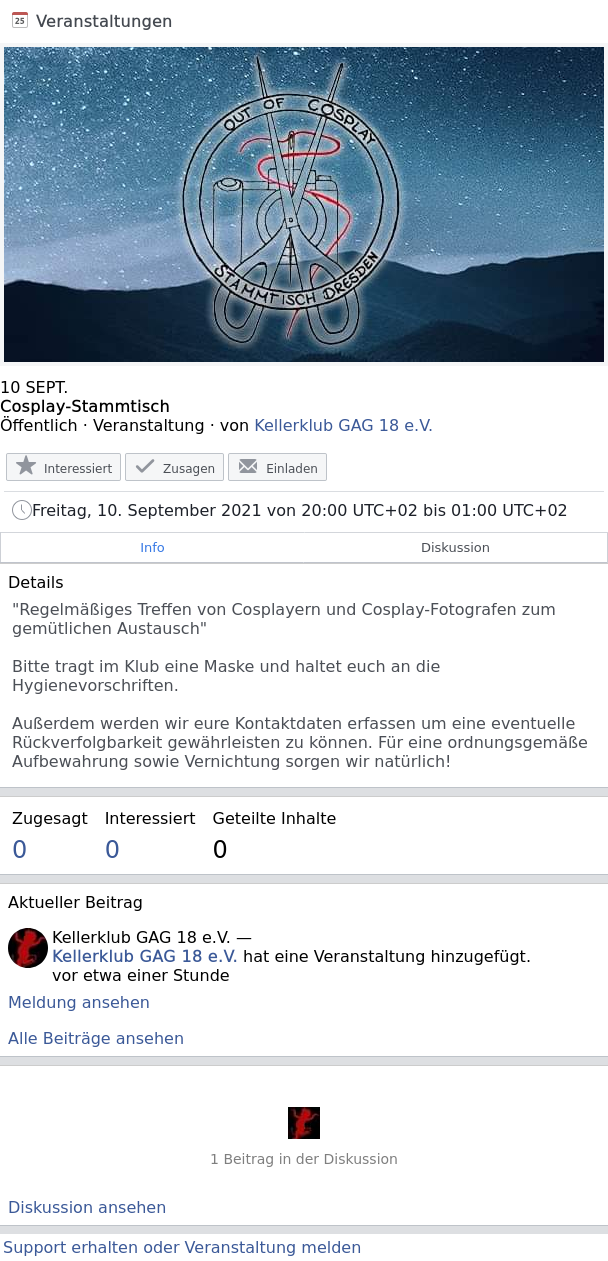
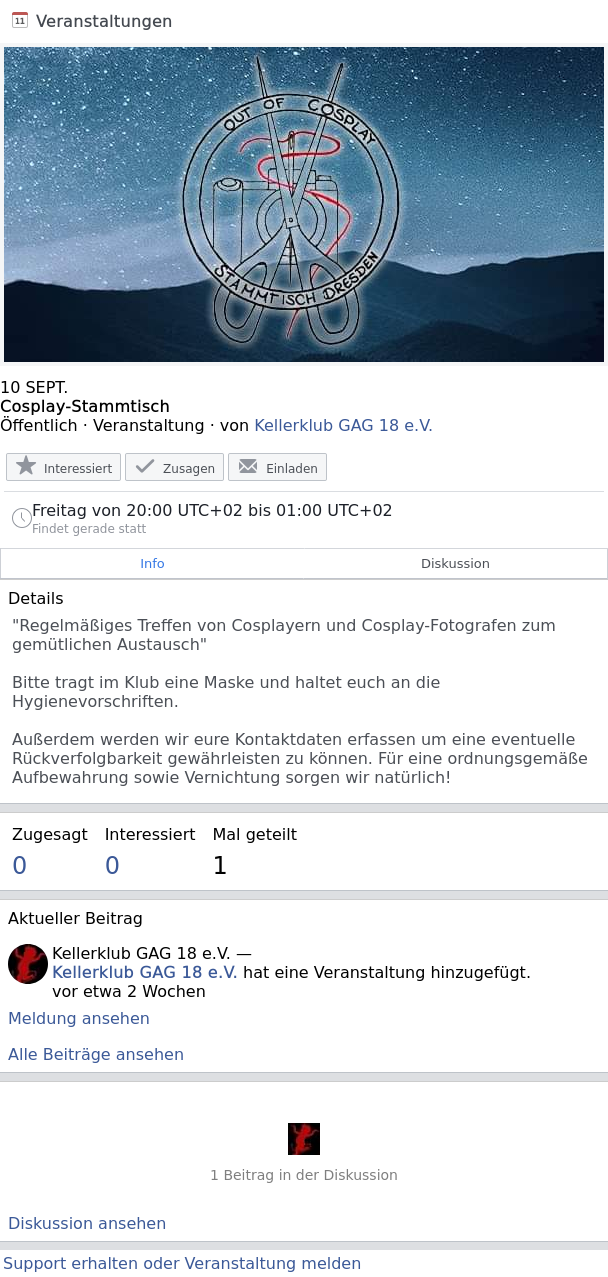
update events

diff --git a/README.md b/README.md
@@ -1,33 +1,3 @@
-### Bar-Abend mit Bier-Pong
-
-**Beginn:** Fr 10.09.2021, 20:00+0200\
-**Ende:** Sa 11.09.2021, 01:00+0200\
-**Ort:** Studentenklub Count Down\
-**Link:** <https://mbasic.facebook.com/events/436227964393726>\
-**Screenshot:**
-[facebook.com-events-436227964393726.png](facebook.com-events-436227964393726.png)
-
-> Wenn euch Freitag Abend die Langeweile plagt, kommt zu uns, bringt Freunde mit und spielt einfach ein oder mehr Runden Bier-Pong.
-
-------------------------------------------------------------------------
-
-### Cosplay-Stammtisch
-
-**Beginn:** Fr 10.09.2021, 20:00+0200\
-**Ende:** Sa 11.09.2021, 01:00+0200\
-**Ort:** None\
-**Link:** <https://mbasic.facebook.com/events/595663458091444>\
-**Screenshot:**
-[facebook.com-events-595663458091444.png](facebook.com-events-595663458091444.png)
-
-> \"Regelmäßiges Treffen von Cosplayern und Cosplay-Fotografen zum gemütlichen Austausch\"
->
-> Bitte tragt im Klub eine Maske und haltet euch an die Hygienevorschriften.
->
-> Außerdem werden wir eure Kontaktdaten erfassen um eine eventuelle Rückverfolgbarkeit gewährleisten zu können. Für eine ordnungsgemäße Aufbewahrung sowie Vernichtung sorgen wir natürlich!
-
-------------------------------------------------------------------------
-
 ### The 80\'s called (they want their music back)
 
 **Beginn:** Sa 11.09.2021, 20:00+0200\
@@ -164,11 +134,41 @@
 **Beginn:** Fr 17.09.2021, 20:00+0200\
 **Ende:** Sa 18.09.2021, 01:00+0200\
 **Ort:** Studentenklub Count Down\
+**Link:** <https://mbasic.facebook.com/events/436227964393726>\
+**Screenshot:**
+[facebook.com-events-436227964393726.png](facebook.com-events-436227964393726.png)
+
+> Wenn euch Freitag Abend die Langeweile plagt, kommt zu uns, bringt Freunde mit und spielt einfach ein oder mehr Runden Bier-Pong.
+
+------------------------------------------------------------------------
+
+### Bar-Abend mit Bier-Pong
+
+**Beginn:** Fr 17.09.2021, 20:00+0200\
+**Ende:** Sa 18.09.2021, 01:00+0200\
+**Ort:** Studentenklub Count Down\
 **Link:** <https://mbasic.facebook.com/events/438587847461303>\
 **Screenshot:**
 [facebook.com-events-438587847461303.png](facebook.com-events-438587847461303.png)
 
 > Wenn euch Freitag Abend die Langeweile plagt, kommt zu uns, bringt Freunde mit und spielt einfach ein oder mehr Runden Bier-Pong.
+
+------------------------------------------------------------------------
+
+### Cosplay-Stammtisch
+
+**Beginn:** Fr 17.09.2021, 20:00+0200\
+**Ende:** Sa 18.09.2021, 01:00+0200\
+**Ort:** None\
+**Link:** <https://mbasic.facebook.com/events/595663458091444>\
+**Screenshot:**
+[facebook.com-events-595663458091444.png](facebook.com-events-595663458091444.png)
+
+> \"Regelmäßiges Treffen von Cosplayern und Cosplay-Fotografen zum gemütlichen Austausch\"
+>
+> Bitte tragt im Klub eine Maske und haltet euch an die Hygienevorschriften.
+>
+> Außerdem werden wir eure Kontaktdaten erfassen um eine eventuelle Rückverfolgbarkeit gewährleisten zu können. Für eine ordnungsgemäße Aufbewahrung sowie Vernichtung sorgen wir natürlich!
 
 ------------------------------------------------------------------------
 
